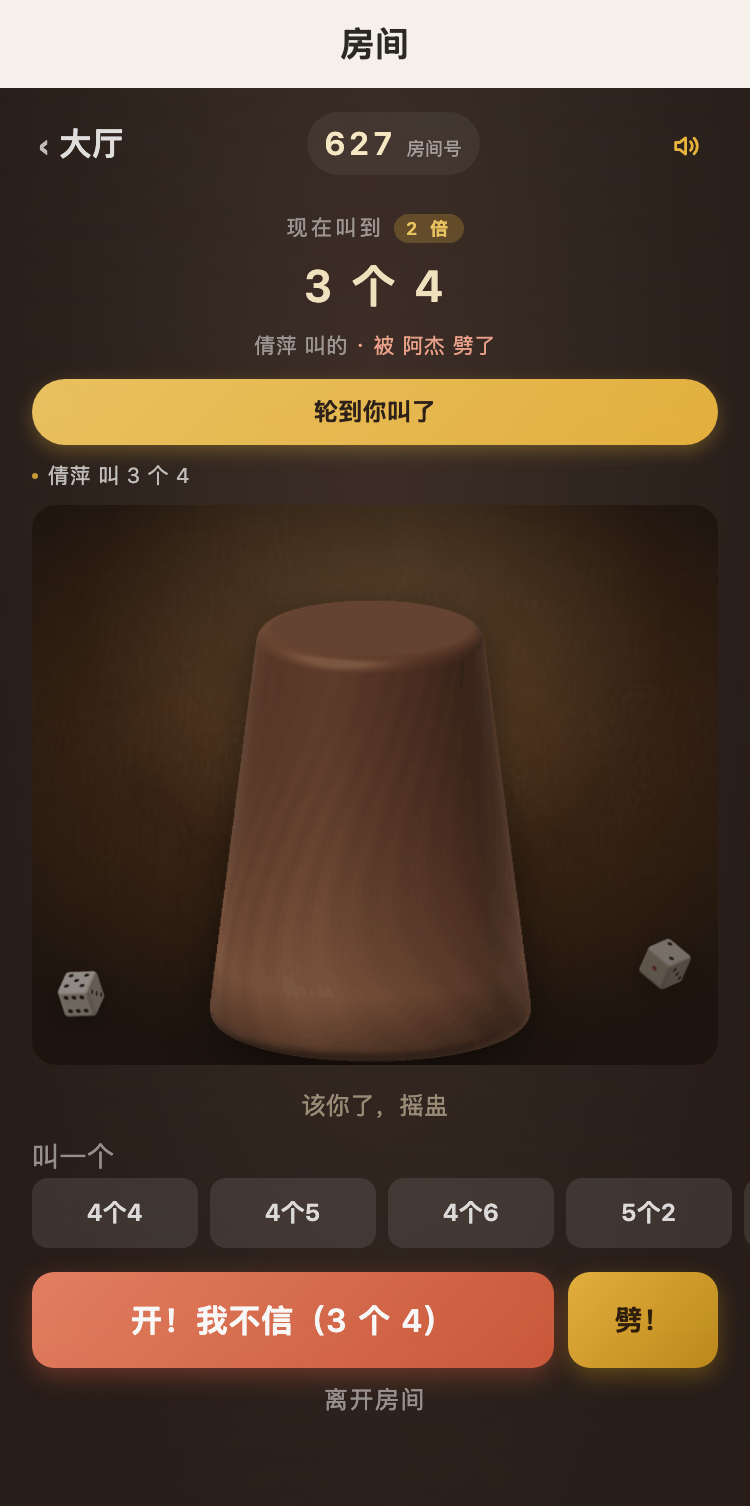
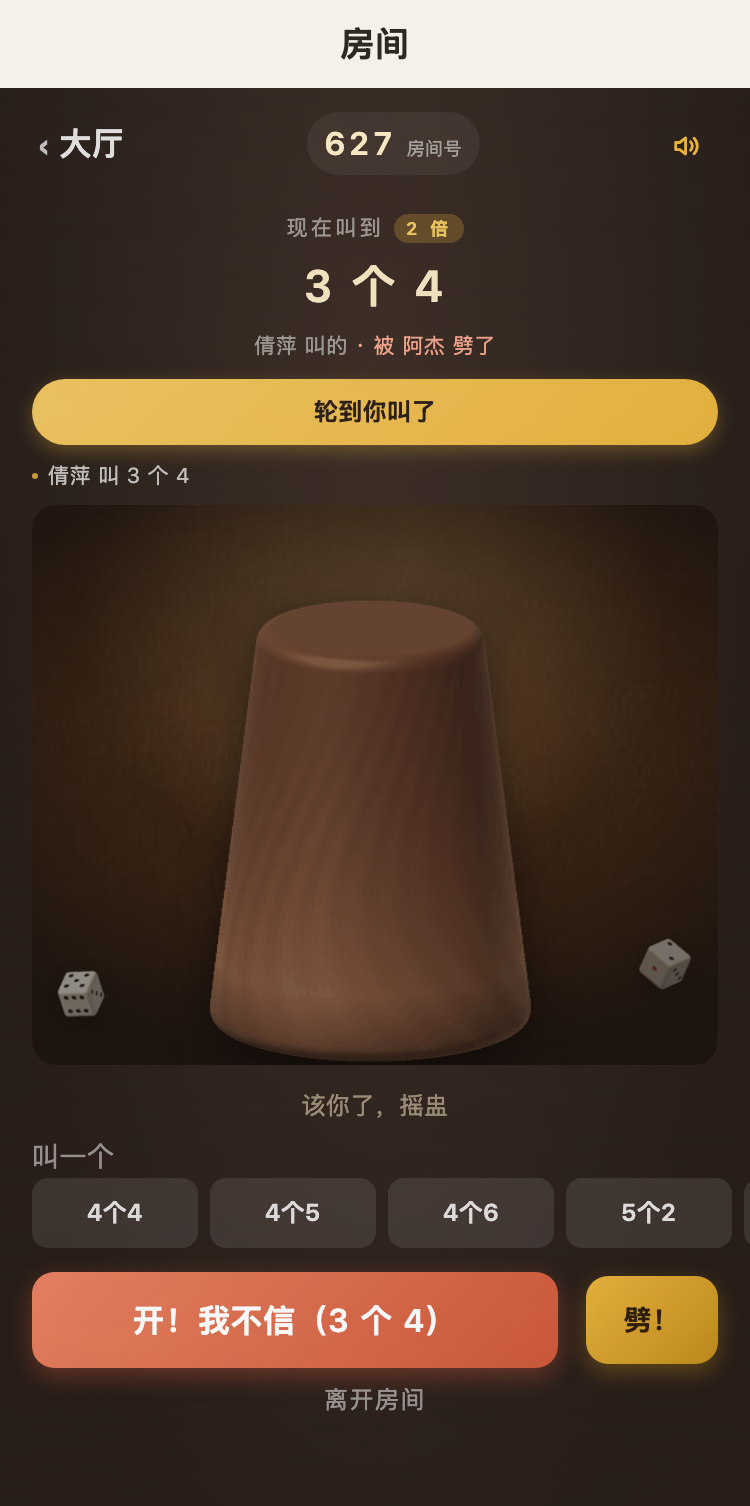
fix(3.9.65): 「开」和「劈」挨太近，容易点错（两者后果完全不同）
之前间距只有 14rpx（7px），而两个都是 96rpx 高的大块：
想劈却点到开，或者反过来，都不可撤销（一局直接结束 / 赌注翻倍）。

改法不是加二次确认 —— 酒桌上要快，确认会打断节奏。而是从物理上分开：
· 间距 14 → 28rpx（一个拇指宽的落点余量）
· 劈按钮收窄到 132rpx、高度 96 → 88：高度差形成一条明确边界，
  手指落点更不容易跨过去
· 视觉重量继续分开：开是红色实心（主动作），劈是金色次级

diff --git a/outputs/ui/room-liarPlay.html b/outputs/ui/room-liarPlay.html
@@ -791,11 +791,12 @@ view, text, button, input, textarea { box-sizing: border-box }
 }
 
 
-.liar-acts { display: flex; gap: 7px; align-items: stretch }
+
+.liar-acts { display: flex; gap: 14px; align-items: center }
 .liar-acts .openbtn { flex: 1; margin-top: 0 }
 .pibtn {
   flex: none;
-  width: 75px; height: 48px;
+  width: 66px; height: 44px;
   margin-top: 0;
   display: flex; align-items: center; justify-content: center;
   background: linear-gradient(135deg, #E8B33C, #C08A18);
@@ -1052,10 +1053,6 @@ view, text, button, input, textarea { box-sizing: border-box }
 }
 
 
-@keyframes mineDieIn {
-  0%   { opacity: 0; transform: rotateY(-180deg) scale(.5) }
-  100% { opacity: 1; transform: rotateY(0deg) scale(1) }
-}
 
 
 .optbtn {
@@ -1404,6 +1401,15 @@ view, text, button, input, textarea { box-sizing: border-box }
   text-align: center;
 }
 .uw-card.on .uw-card-in { border-color: rgba(255,225,160,.9) }
+
+
+.uw-card.compact { margin-bottom: 8px }
+.uw-card.compact .uw-card-in { padding: 11px 15px }
+.uw-card.compact .uw-lock { font-size: 13.5px; letter-spacing: 1px }
+.uw-card.compact .uw-wtip { display: none }
+.uw-card.compact .uw-wlbl { font-size: 9px }
+.uw-card.compact .uw-wtxt { font-size: 32px }
+.uw-card.compact .uw-wsub { display: none }
 
 .uw-lock {
   font-size: 18px; font-weight: 700; color: rgba(255,255,255,.85);
